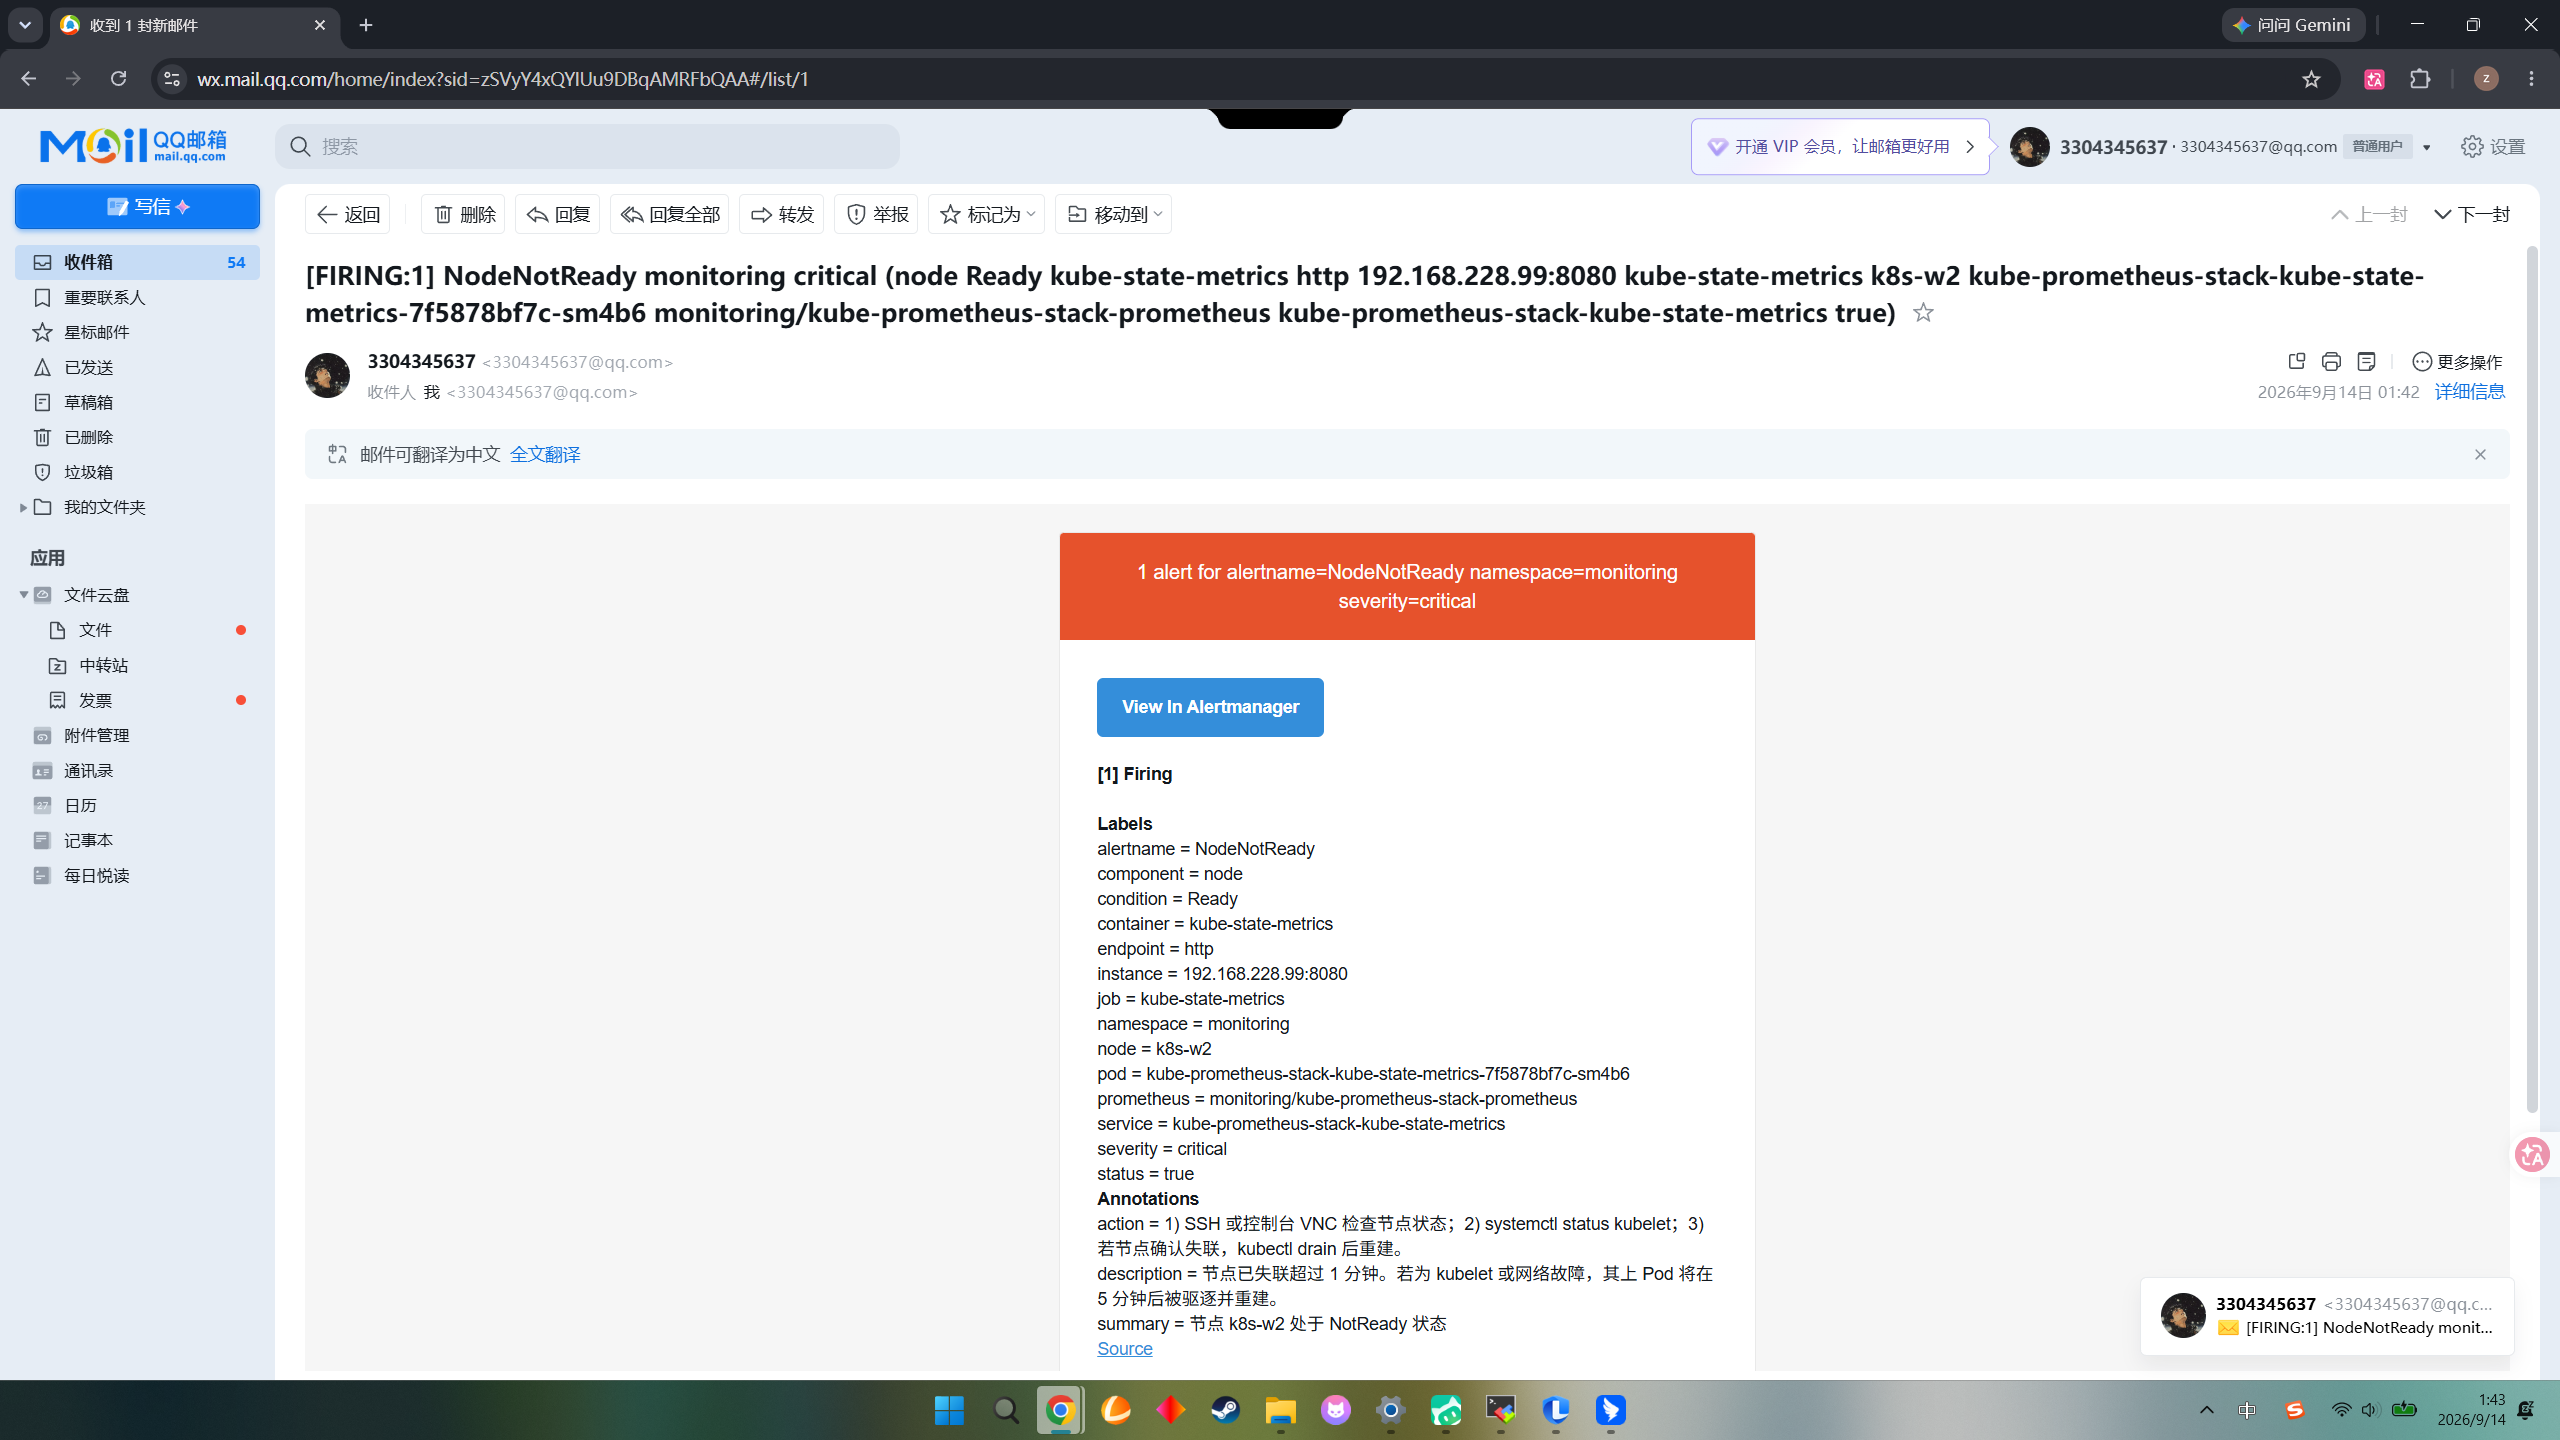
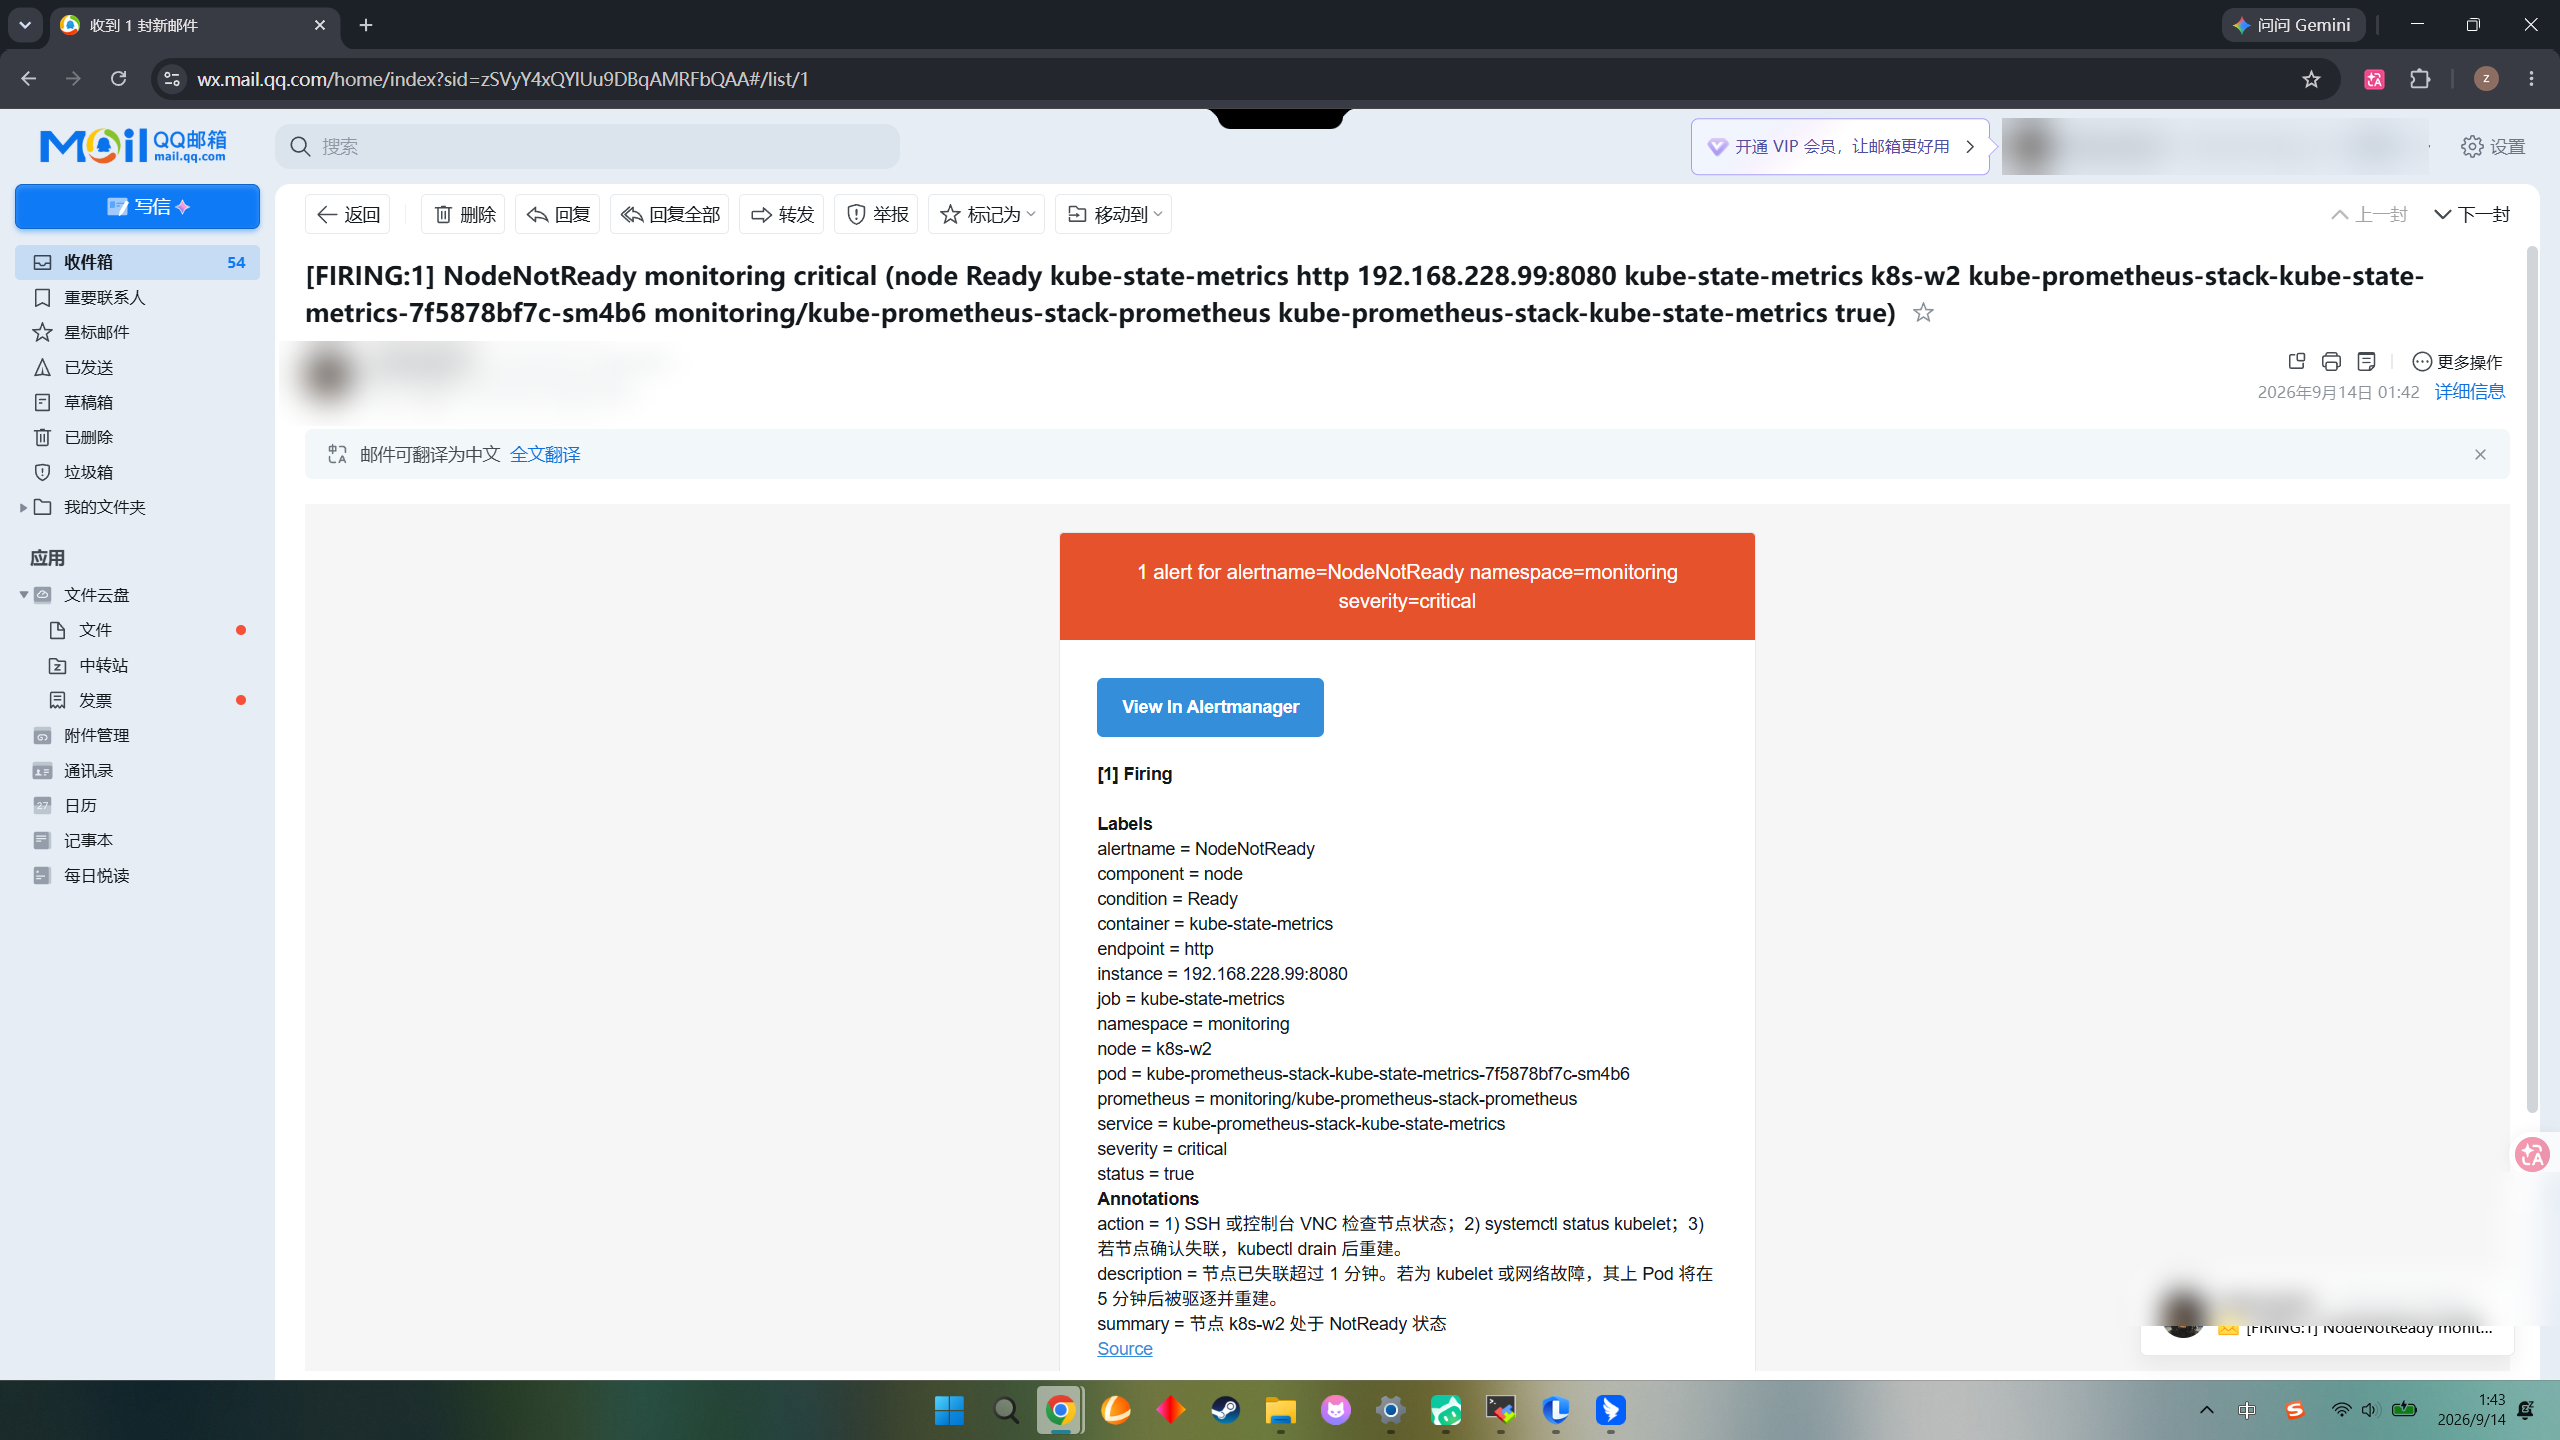
privacy: 仓库脱敏（截图模糊邮箱、配置占位符化、简历草稿移出）

diff --git a/scripts/redact-screenshots.py b/scripts/redact-screenshots.py
@@ -1,0 +1,27 @@
+#!/usr/bin/env python3
+# -*- coding: utf-8 -*-
+"""邮件告警截图脱敏：对含 QQ 邮箱的区域做高斯模糊。区域坐标基于 1080x608 实测。"""
+import io
+from PIL import Image, ImageFilter
+
+BASE = r"E:\yes\k8s-sre-platform\docs\screenshots"
+
+# (文件名, [(x0,y0,x1,y1), ...])
+jobs = {
+    "14-alert-email.png":          [(845, 50, 1025, 74), (118, 126, 300, 162)],
+    "16-alert-recovered.png":      [(845, 50, 1025, 74), (118, 126, 300, 162)],
+    "chaos-02-alert-email.png":    [(845, 50, 1025, 74), (118, 144, 300, 180), (850, 495, 1080, 560)],
+    "chaos-04-recovery.png":       [(845, 50, 1025, 74), (118, 144, 300, 180), (850, 495, 1080, 560)],
+}
+
+for name, boxes in jobs.items():
+    p = BASE + "\\" + name
+    im = Image.open(p).convert("RGB")
+    W, H = im.size
+    sx, sy = W / 1080.0, H / 608.0  # 按实际分辨率缩放坐标
+    for (x0, y0, x1, y1) in boxes:
+        box = (int(x0 * sx), int(y0 * sy), int(x1 * sx), int(y1 * sy))
+        region = im.crop(box).filter(ImageFilter.GaussianBlur(12))
+        im.paste(region, box)
+    im.save(p)
+    print(f"脱敏完成 {name} ({W}x{H})，模糊 {len(boxes)} 处")
